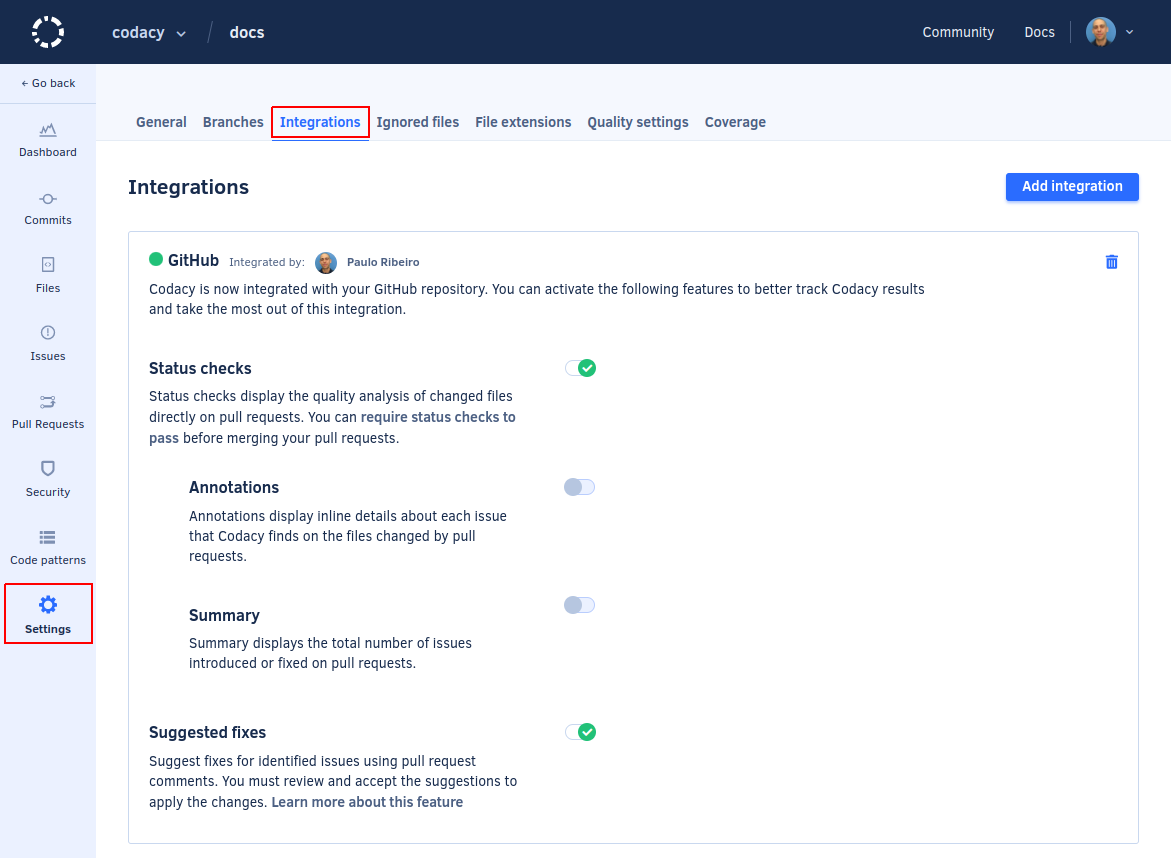
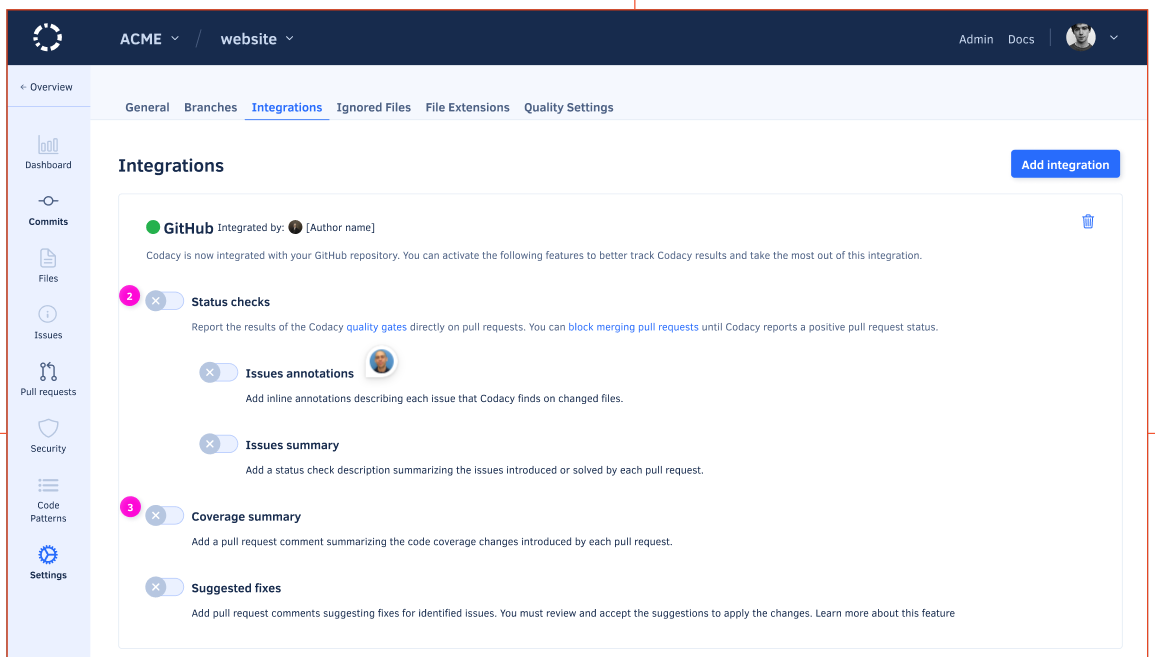
wip: Update screenshot with mockup

diff --git a/docs/repositories-configure/integrations/github-integration.md b/docs/repositories-configure/integrations/github-integration.md
@@ -14,7 +14,7 @@ When the integration is enabled, you can also create pull request comments and G
 
 To enable the GitHub integration, open your repository **Settings**, tab **Integrations**. When you add a new repository, the integration is already enabled by default.
 
-![GitHub integration](images/github-integration.png)
+![GitHub integration](images/github-integration.png)<!--TODO Update screenshot with final version-->
 
 If you remove the integration, you can enable it again as follows:
 
